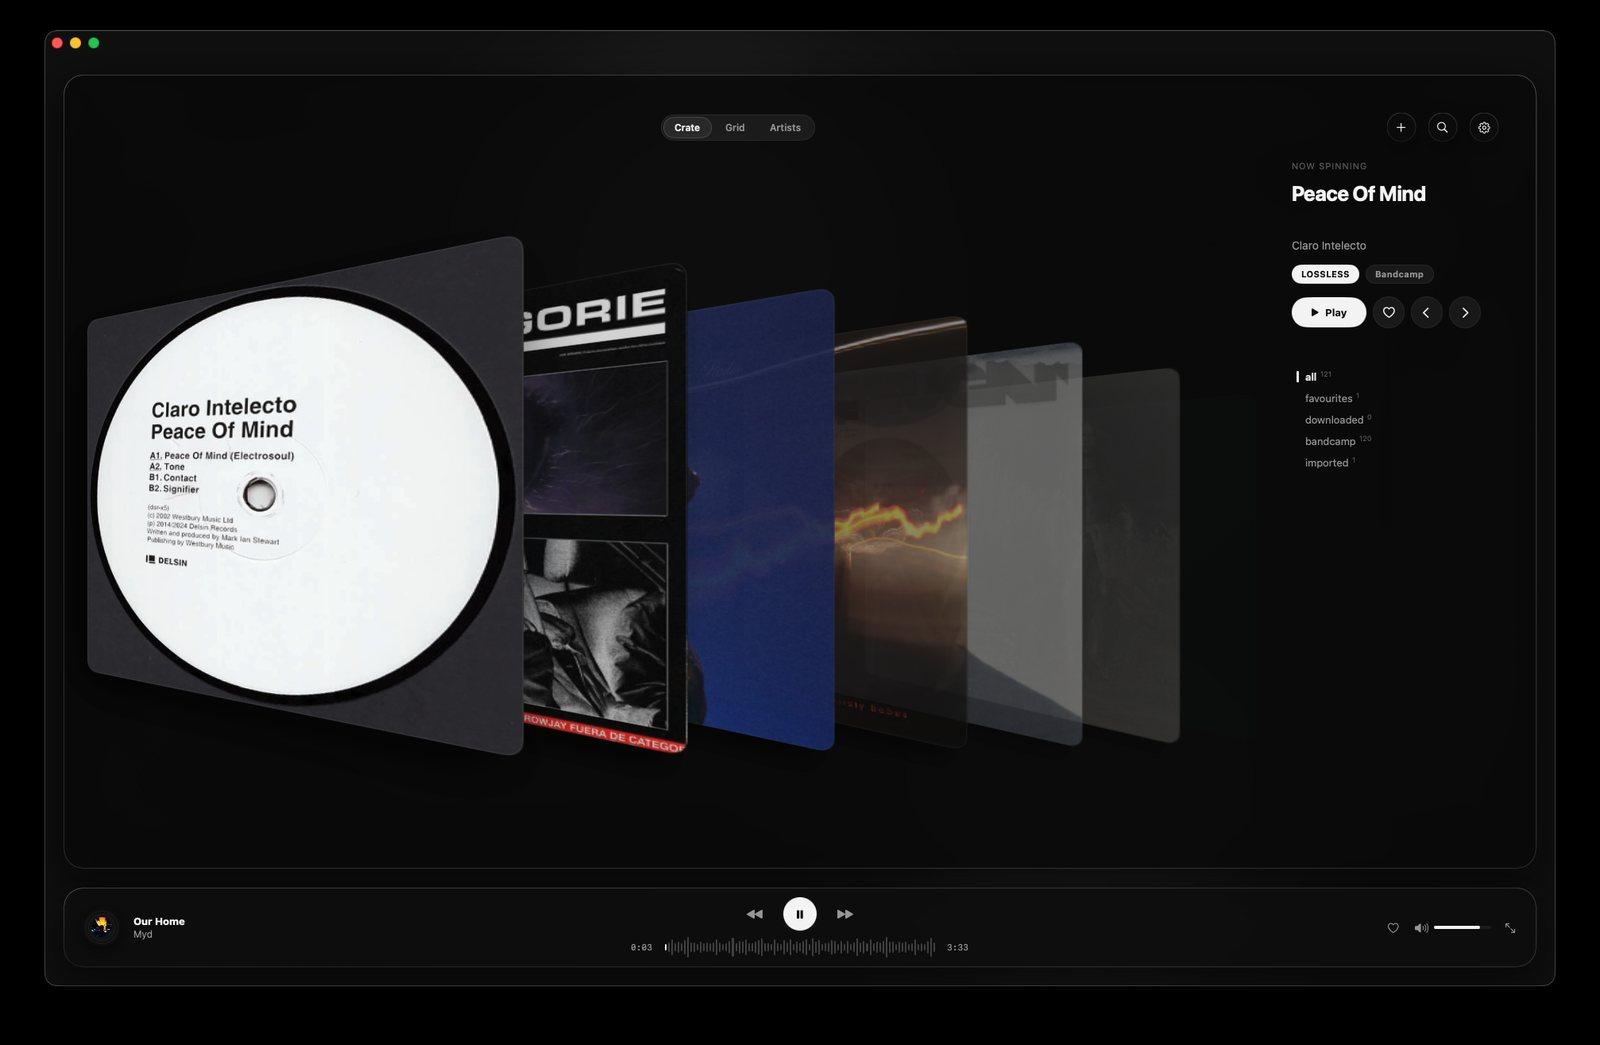
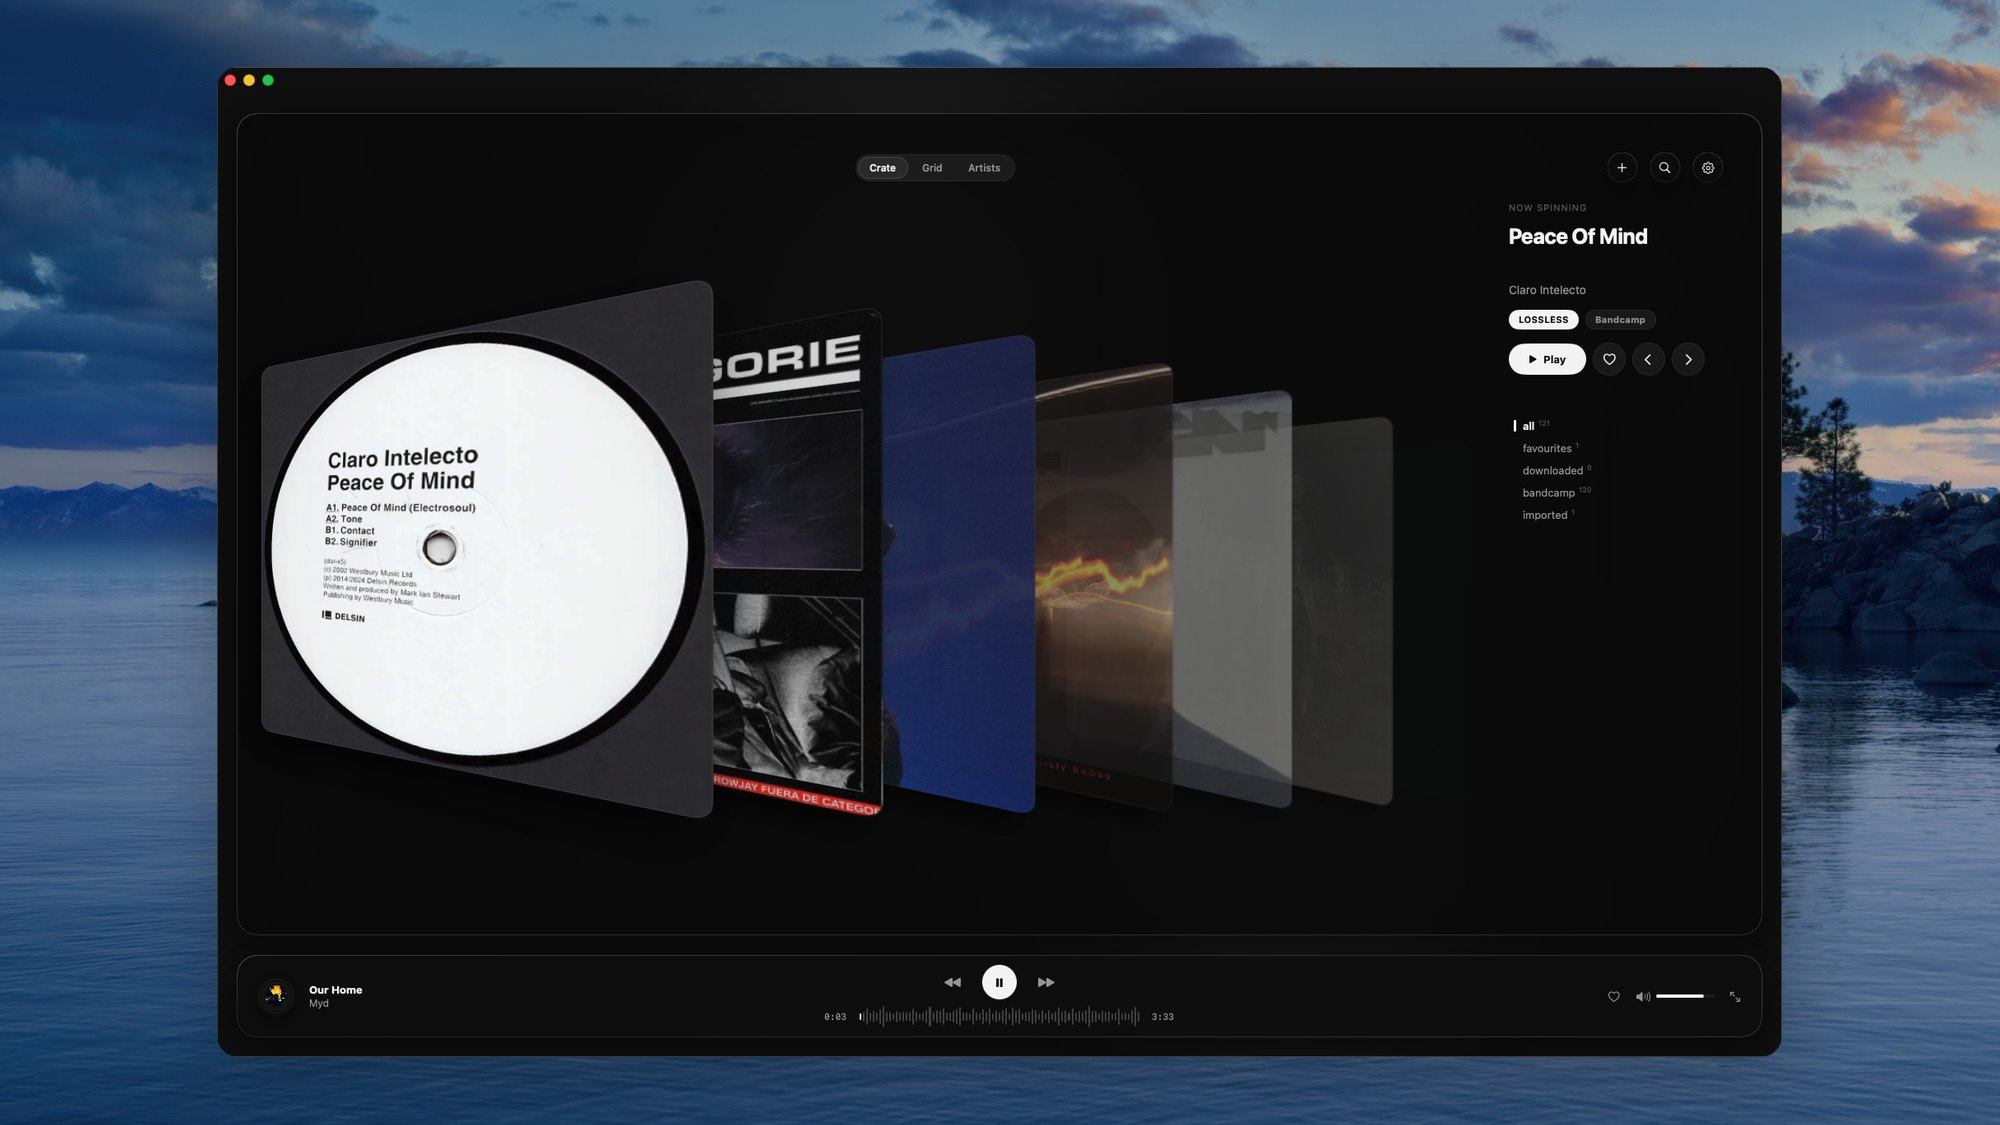
Yoin: composite all screenshots onto the Tahoe wallpaper; new centered Now Playing hero
Every gallery shot now floats its window centered on the desktop
wallpaper (uniform 2000x1125, soft shadow) like the other apps. The
new turntable Now Playing (SHELTER) becomes the hero; OG regenerated.

diff --git a/yoin/index.html b/yoin/index.html
@@ -69,12 +69,12 @@
       </div>
 
       <div class="shots">
-        <figure class="shot"><img src="/assets/work/yoin-crate.jpg" width="1600" height="1045" loading="eager" fetchpriority="high" decoding="async" alt="Yoin's Crate view — album covers fanned out in a cover-flow, with a Now Spinning panel showing the current record" /><figcaption>Your collection as a crate — flip through the covers</figcaption></figure>
-        <figure class="shot"><img src="/assets/work/yoin-album.jpg" width="1600" height="1107" loading="lazy" decoding="async" alt="Yoin showing a single album pulled to the front of the crate, with its track count and play controls" /><figcaption>Pull an album to the front and press play</figcaption></figure>
-        <figure class="shot"><img src="/assets/work/yoin-grid.jpg" width="1600" height="1107" loading="lazy" decoding="async" alt="Yoin's Grid view — a wall of album artwork with one-tap download badges and library filters" /><figcaption>A grid of everything, with one-tap downloads</figcaption></figure>
-        <figure class="shot"><img src="/assets/work/yoin-nowplaying.jpg" width="1600" height="1107" loading="lazy" decoding="async" alt="Yoin's Now Playing screen — a spinning record with a DJ speed fader beside it" /><figcaption>A turntable Now Playing, with DJ speed control</figcaption></figure>
-        <figure class="shot"><img src="/assets/work/yoin-credits.jpg" width="1600" height="1107" loading="lazy" decoding="async" alt="Yoin's album view with a track list and an album credits panel that can fetch and edit credits" /><figcaption>Album credits, fetched and editable</figcaption></figure>
-        <figure class="shot"><img src="/assets/work/yoin-settings.jpg" width="1600" height="1424" loading="lazy" decoding="async" alt="Yoin's settings — cover carousel styles (Coverflow, Vinyl, Wall), DJ mode, light and dark, and a private year-in-covers recap" /><figcaption>Coverflow, Vinyl or Wall — and a private year-in-covers recap</figcaption></figure>
+        <figure class="shot"><img src="/assets/work/yoin-nowplaying.jpg" width="2000" height="1125" loading="eager" fetchpriority="high" decoding="async" alt="Yoin's Now Playing screen — a record spinning on a turntable, with the track and transport controls" /><figcaption>A turntable Now Playing — watch the record spin</figcaption></figure>
+        <figure class="shot"><img src="/assets/work/yoin-crate.jpg" width="2000" height="1125" loading="lazy" decoding="async" alt="Yoin's Crate view — album covers fanned out in a cover-flow, with a Now Spinning panel showing the current record" /><figcaption>Your collection as a crate — flip through the covers</figcaption></figure>
+        <figure class="shot"><img src="/assets/work/yoin-album.jpg" width="2000" height="1125" loading="lazy" decoding="async" alt="Yoin showing a single album pulled to the front of the crate, with its track count and play controls" /><figcaption>Pull an album to the front and press play</figcaption></figure>
+        <figure class="shot"><img src="/assets/work/yoin-grid.jpg" width="2000" height="1125" loading="lazy" decoding="async" alt="Yoin's Grid view — a wall of album artwork with one-tap download badges and library filters" /><figcaption>A grid of everything, with one-tap downloads</figcaption></figure>
+        <figure class="shot"><img src="/assets/work/yoin-credits.jpg" width="2000" height="1125" loading="lazy" decoding="async" alt="Yoin's album view with a track list and an album credits panel that can fetch and edit credits" /><figcaption>Album credits, fetched and editable</figcaption></figure>
+        <figure class="shot"><img src="/assets/work/yoin-settings.jpg" width="2000" height="1125" loading="lazy" decoding="async" alt="Yoin's settings — cover carousel styles (Coverflow, Vinyl, Wall), DJ mode, light and dark, and a private year-in-covers recap" /><figcaption>Coverflow, Vinyl or Wall — and a private year-in-covers recap</figcaption></figure>
       </div>
     </main>
 
